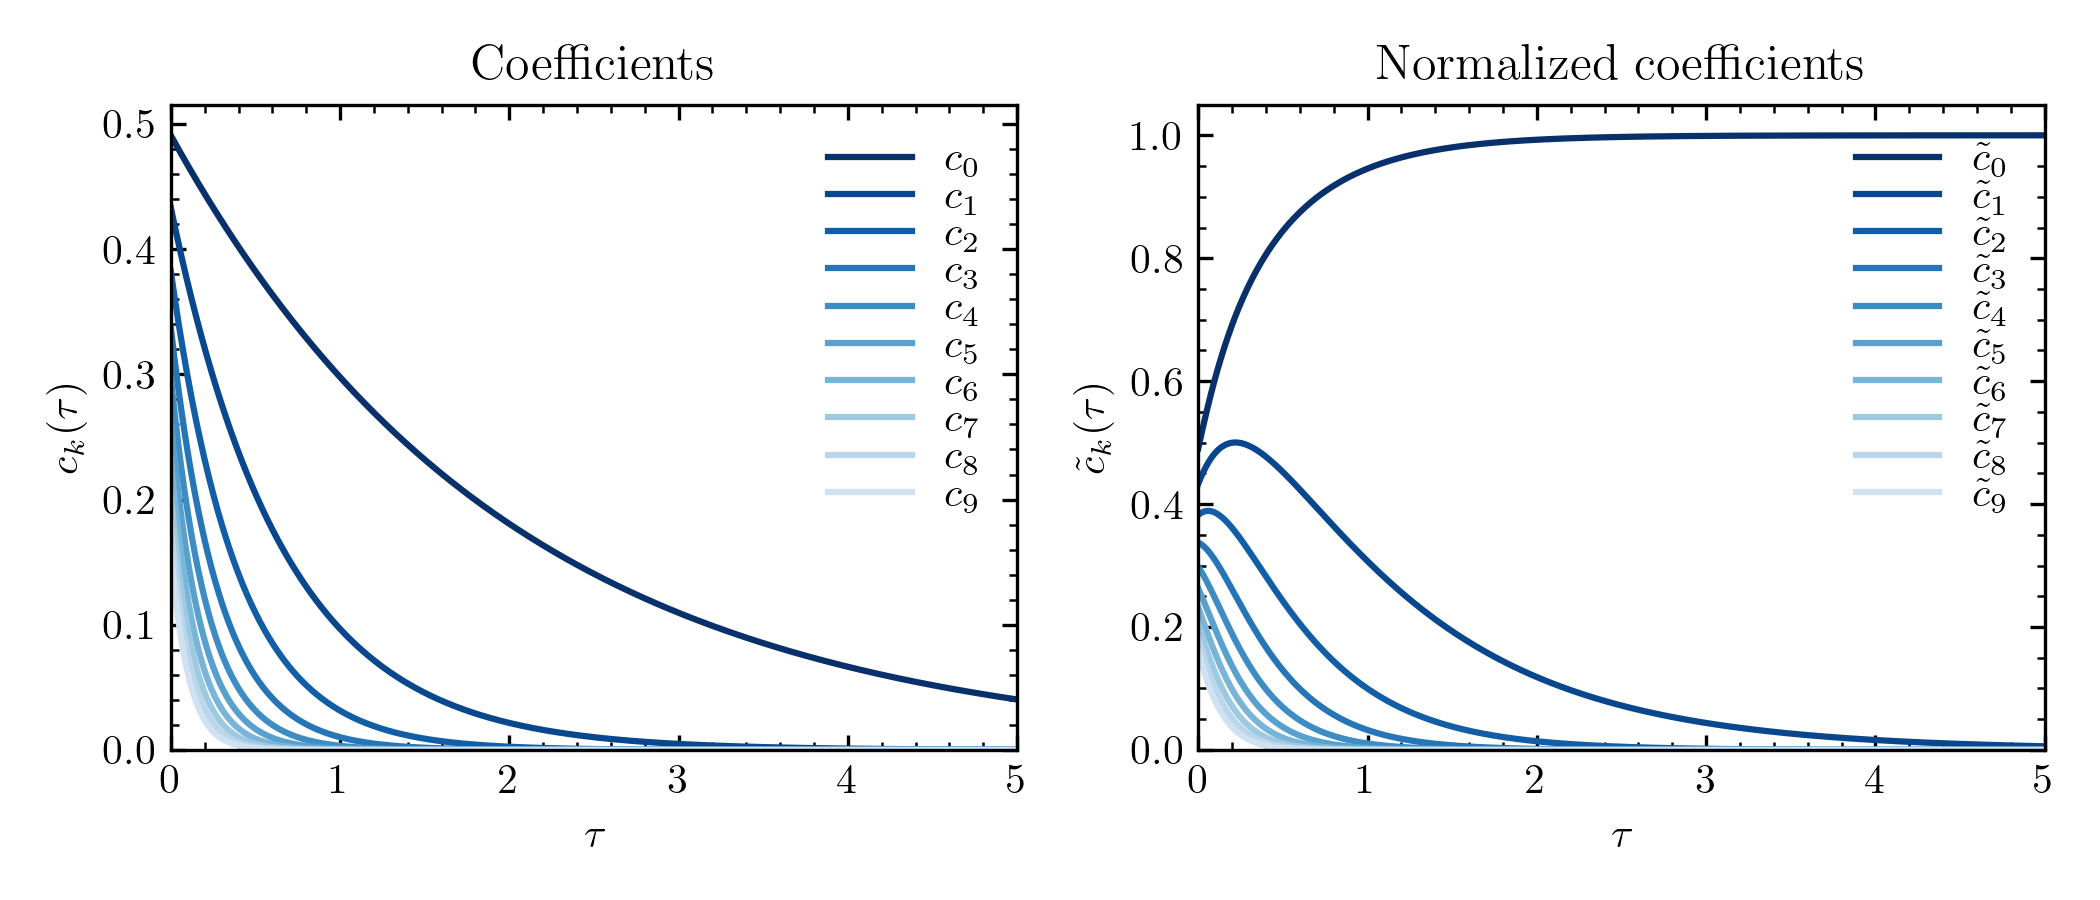
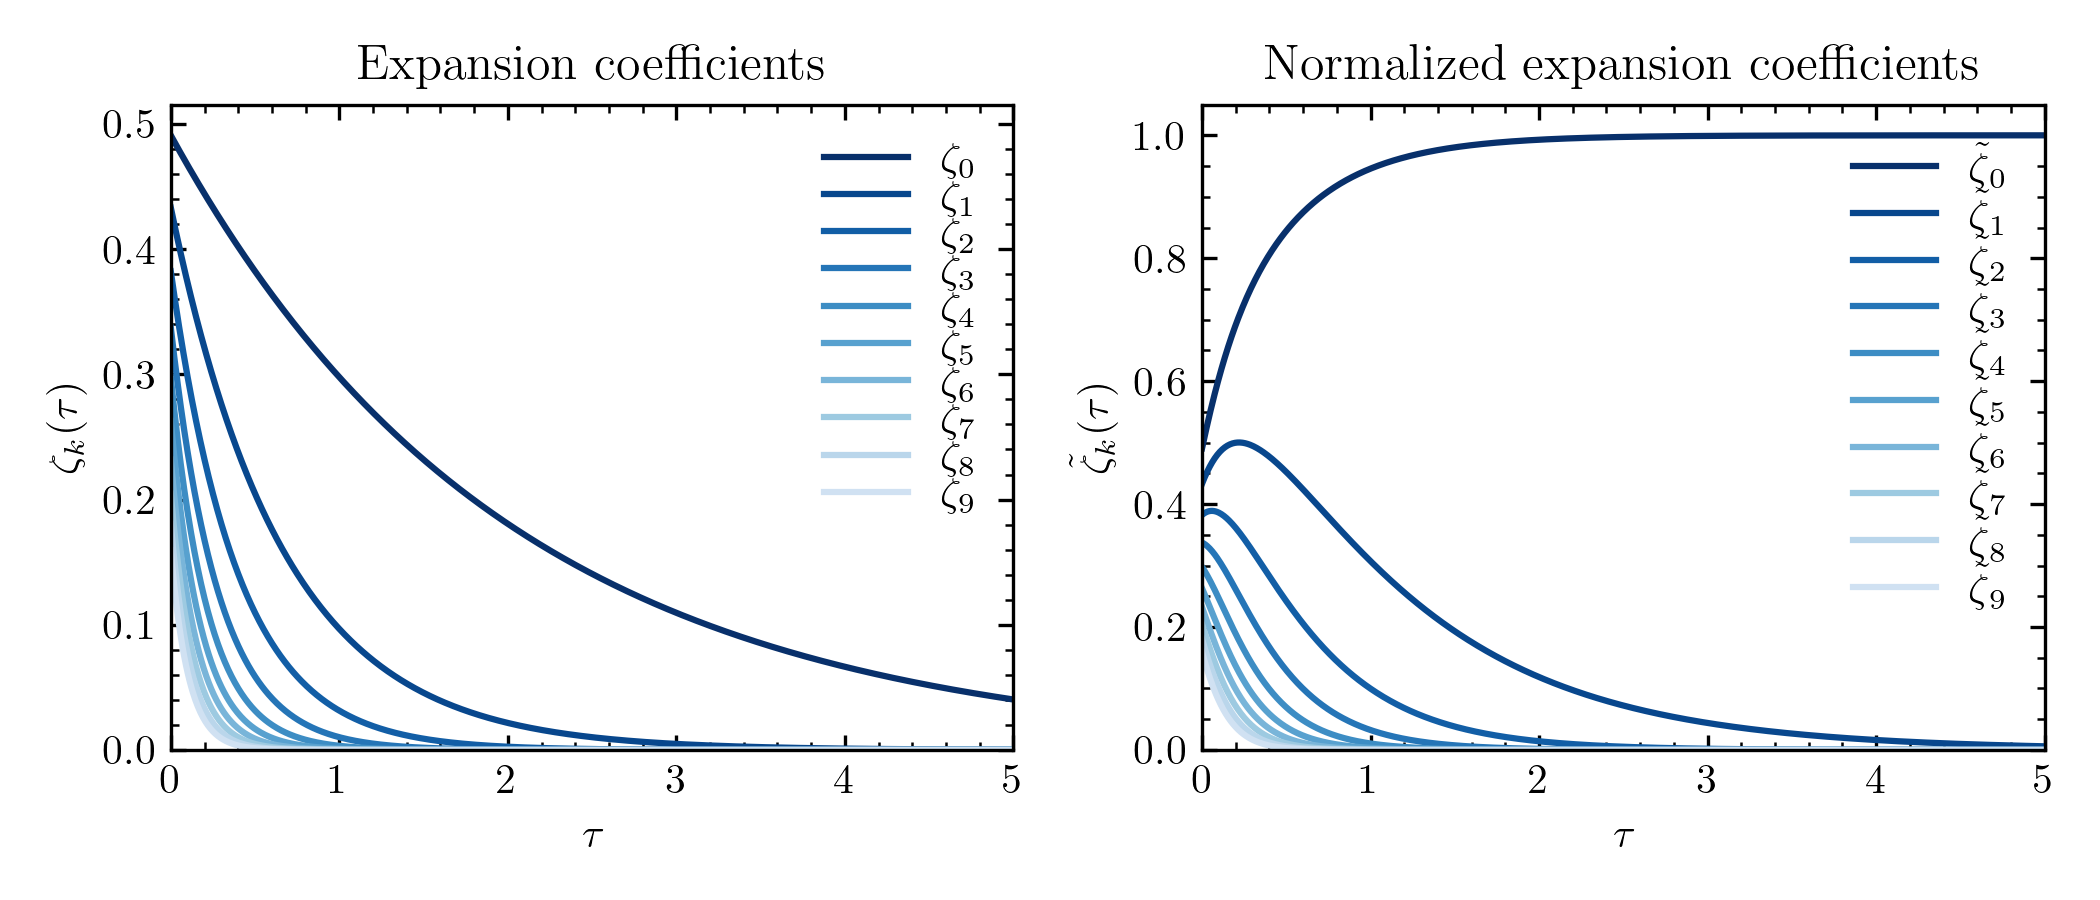
itqd function figure 1, modification 2

diff --git a/scriptum/obrazky/itqd/itqd1.py b/scriptum/obrazky/itqd/itqd1.py
@@ -32,12 +32,12 @@ plt.rc('font', family='serif')
 fig, axs = plt.subplots(1, 2, figsize=(7.0, 3.))
 
 for state in range(nstates):
-    axs[0].plot(t, c[state], color=colors[state], ls='-', label=f"$c_{state:d}$")
-    axs[1].plot(t, c[state]/norm, color=colors[state], ls='-', label=r"$\tilde{c}$" + f"$_{state:d}$")
+    axs[0].plot(t, c[state], color=colors[state], ls='-', label=f"$\zeta_{state:d}$")
+    axs[1].plot(t, c[state]/norm, color=colors[state], ls='-', label=r"$\tilde{\zeta}$" + f"$_{state:d}$")
 
-axs[0].set_title(r"Coefficients")
+axs[0].set_title(r"Expansion coefficients")
 axs[0].set_xlabel(r"$\tau$")
-axs[0].set_ylabel(r"$c_k(\tau)$")
+axs[0].set_ylabel(r"$\zeta_k(\tau)$")
 
 axs[0].set_xlim(0, tplot)
 axs[0].set_ylim(0)
@@ -46,9 +46,9 @@ axs[0].tick_params('both', direction='in', which='both', top=True, right=True)
 axs[0].minorticks_on()
 axs[0].legend(frameon=False, labelspacing=0, loc='upper right')
 
-axs[1].set_title(r"Normalized coefficients")
+axs[1].set_title(r"Normalized expansion coefficients")
 axs[1].set_xlabel(r"$\tau$")
-axs[1].set_ylabel(r"$\tilde{c}_k(\tau)$")
+axs[1].set_ylabel(r"$\tilde{\zeta}_k(\tau)$")
 
 axs[1].set_xlim(0, tplot)
 axs[1].set_ylim(0)
